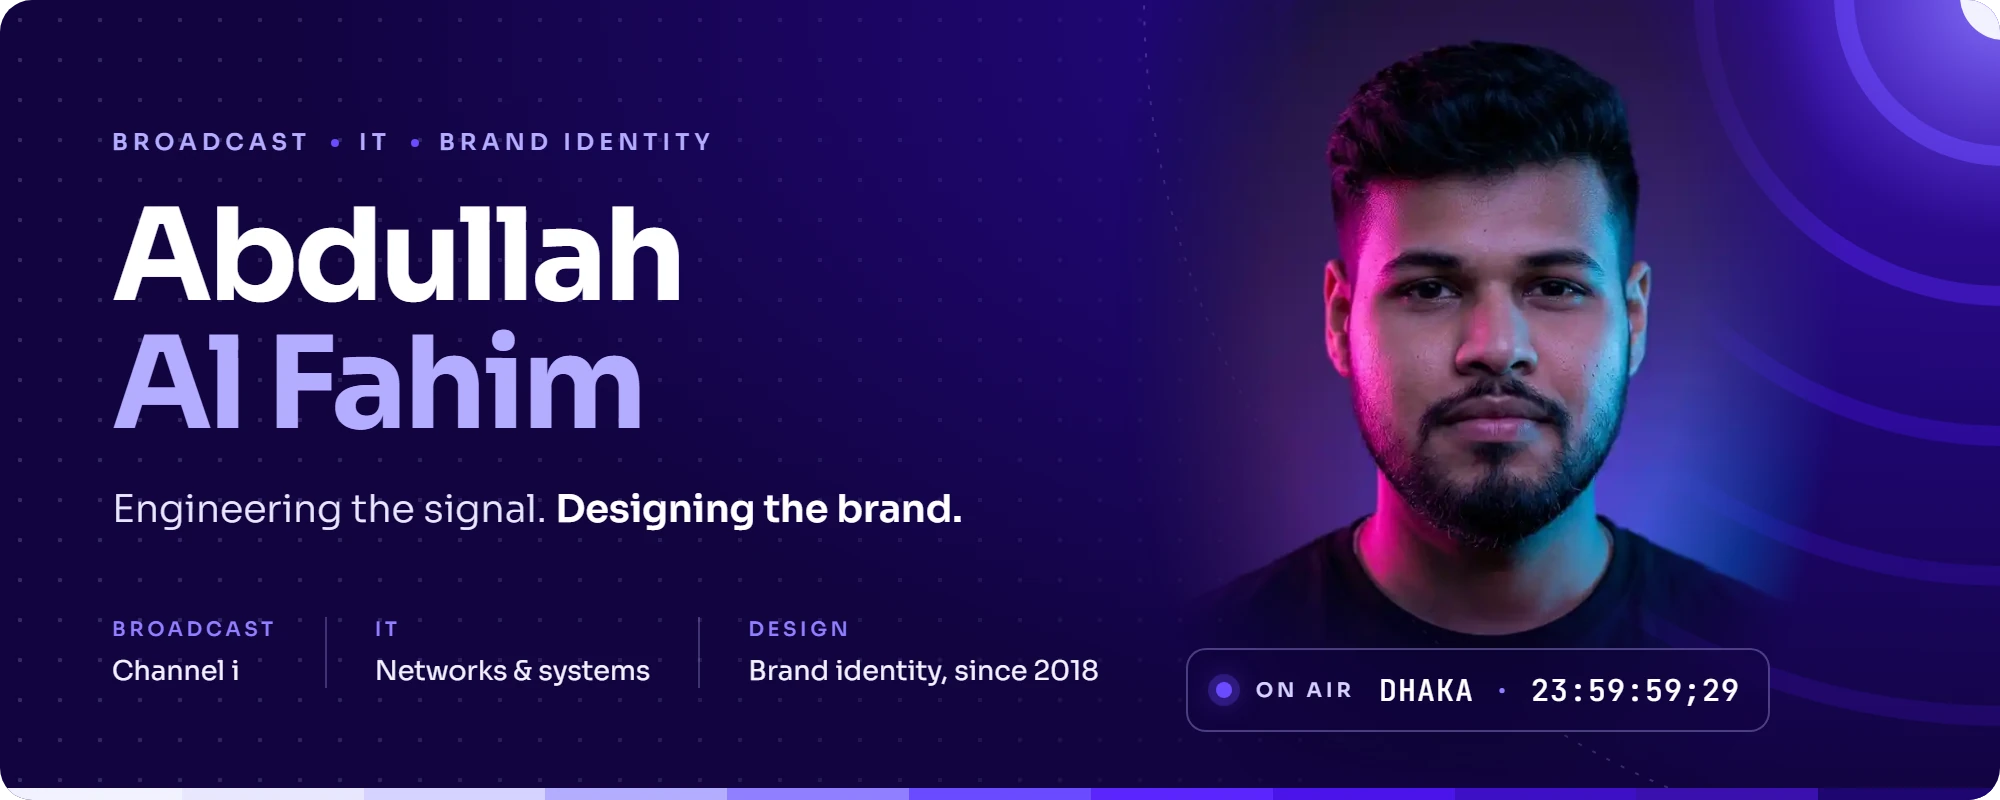
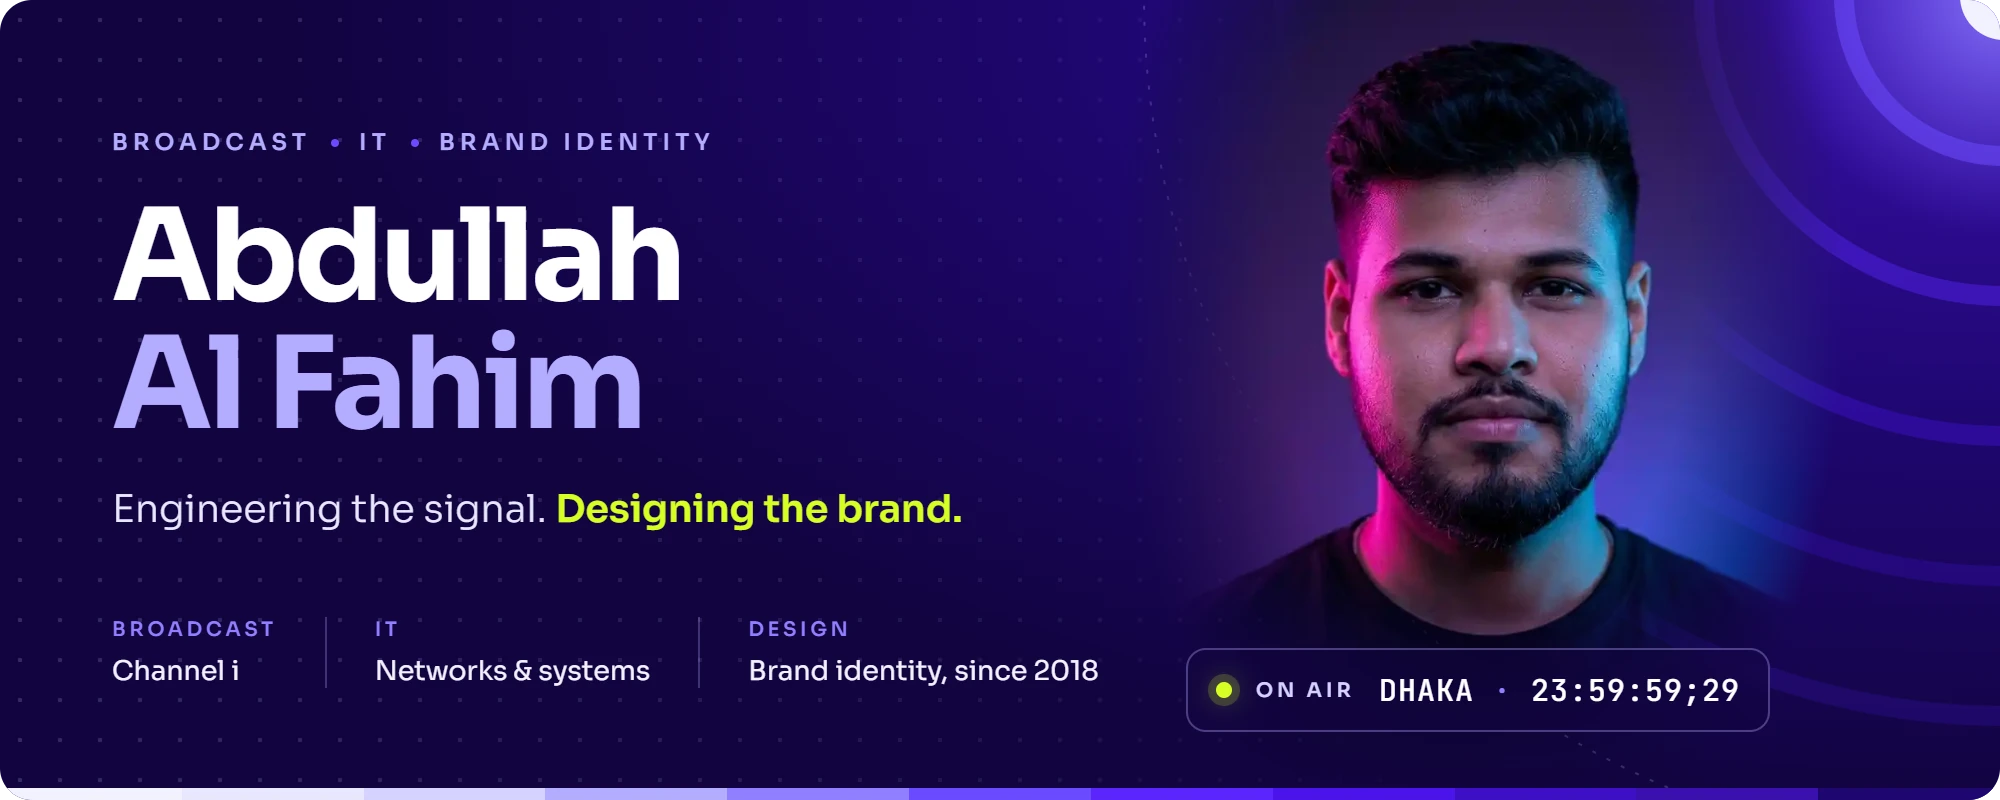
Add Acid Lime highlights and violet snake colors
Acid Lime (#D4FF24) marks only what should be seen first: the ON AIR
tally and "Designing the brand." on the cover, and the "Open to" badge.
The contribution snake now uses the violet scale in light and dark.

Changed region(s): [[0.279, 0.5938, 0.496, 0.6562], [0.589, 0.8438, 0.62, 0.875]]

diff --git a/README.md b/README.md
@@ -18,7 +18,7 @@
 <br />
 
 <img src="https://img.shields.io/badge/Based%20in-Dhaka%2C%20Bangladesh-6B4AFF?style=flat-square&labelColor=6E6A86" alt="Based in Dhaka, Bangladesh" />
-<img src="https://img.shields.io/badge/Open%20to-Design%20%26%20IT%20projects-6B4AFF?style=flat-square&labelColor=6E6A86" alt="Open to design and IT projects" />
+<img src="https://img.shields.io/badge/Open%20to-Design%20%26%20IT%20projects-D4FF24?style=flat-square&labelColor=6E6A86" alt="Open to design and IT projects" />
 <br />
 <a href="https://github.com/abdullah-al-faahim?tab=followers"><img src="https://img.shields.io/github/followers/abdullah-al-faahim?label=Followers&style=flat-square&color=6B4AFF&labelColor=6E6A86" alt="GitHub followers" /></a>
 <img src="https://komarev.com/ghpvc/?username=abdullah-al-faahim&label=Profile%20views&color=6B4AFF&style=flat-square" alt="Profile views" />
